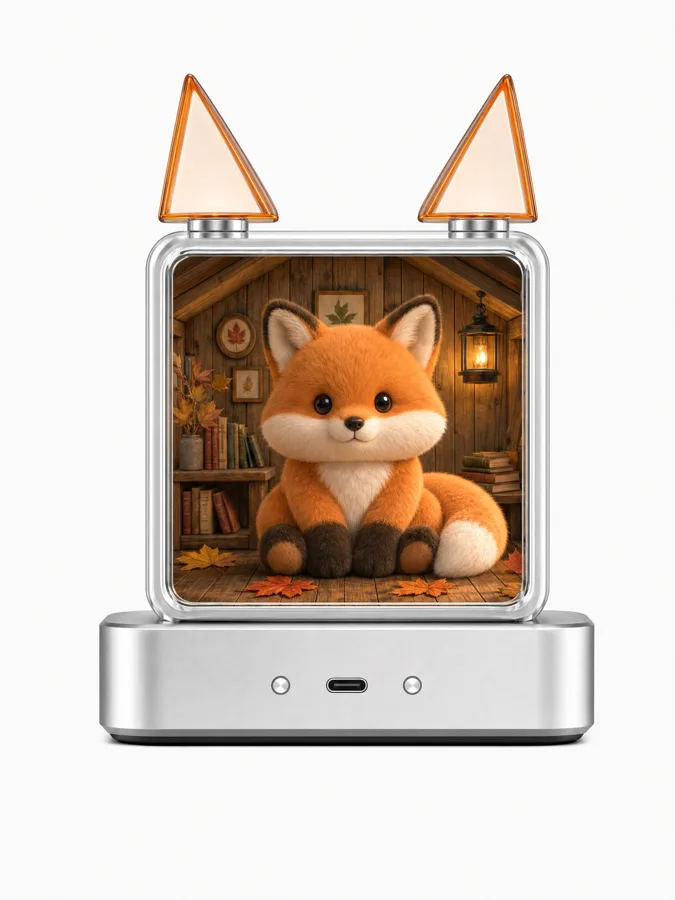
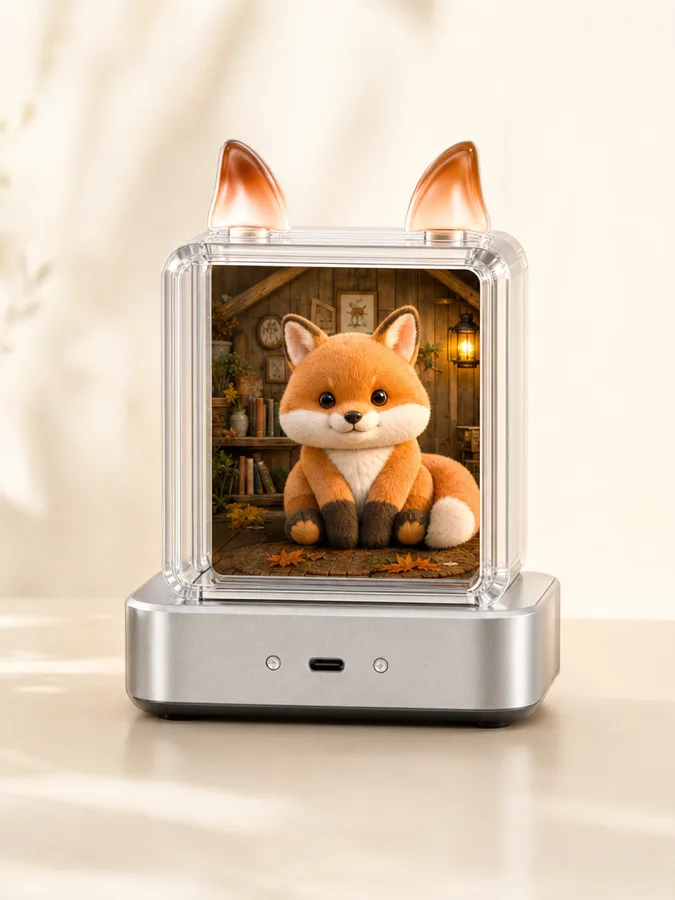
替换磁吸模块卡图并优化选中态边框
- 5 张耳朵模块图换成完整设备实拍系列（猪/熊猫/柴犬/狐狸/兔子）
- 选中卡片边框改为渐隐渣变（顶部橙色到底部文字标签处透明），并跟随圆角

diff --git a/css/styles.css b/css/styles.css
@@ -355,7 +355,21 @@ button { font-family: inherit; cursor: pointer; border: none; background: none; 
   display: block; height: 20%; display: flex; align-items: center; justify-content: center;
   font-size: 14px; font-weight: 600; color: var(--text); background: var(--surface);
 }
-.ear-fan__card.is-active { border-color: var(--accent); box-shadow: 0 24px 48px rgba(61,43,31,.22); }
+.ear-fan__card.is-active {
+  border-color: transparent;
+  box-shadow: 0 24px 48px rgba(61,43,31,.22);
+}
+.ear-fan__card.is-active::before {
+  content: "";
+  position: absolute; inset: 0; z-index: 1;
+  border-radius: inherit;
+  padding: 1px;
+  background: linear-gradient(to bottom, var(--accent) 0%, rgba(255,142,105,0) 78%);
+  -webkit-mask: linear-gradient(#000 0 0) content-box, linear-gradient(#000 0 0);
+  -webkit-mask-composite: xor;
+  mask-composite: exclude;
+  pointer-events: none;
+}
 .ear-fan__hint { margin-top: 8px; font-size: 13px; color: var(--text-secondary); }
 
 @media (max-width: 640px) {
